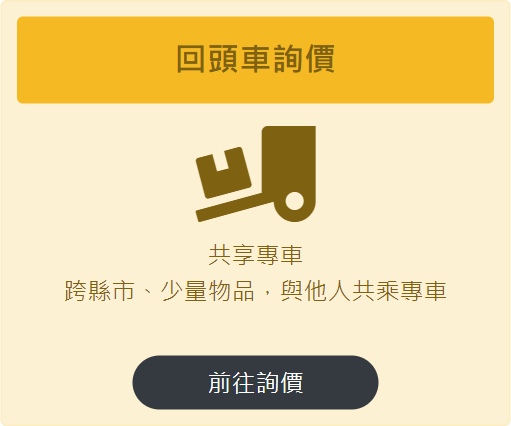
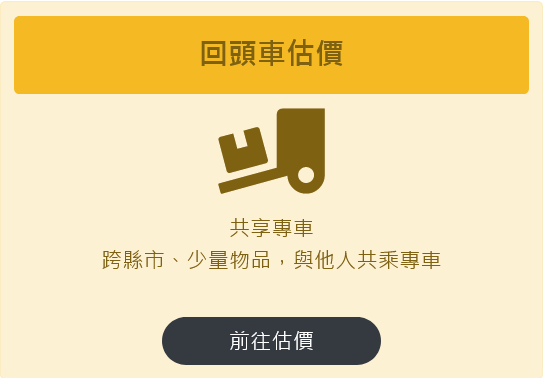
fix: wording

diff --git a/src/html/web/evaluate-step3.html b/src/html/web/evaluate-step3.html
@@ -26,16 +26,18 @@
                     <form>
                     <div class="box mb-6">
                         <div class="alert alert-warning m-0">
+                            <div class="h5 font-weight-bold">快速估價單使用說明</div>
                             <ul class="pl-4">
-                                <li class="my-1">個人資訊僅供搬家公司報價聯絡使用</li>
-                                <li class="my-1">填單完成，登入會員即可得與搬家公司雙向溝通討論</li>
-                                <li class="my-1">線上填寫搬家估價單，享5%折扣退費</li>
+                                <li class="my-1">估價單回覆日為1個工作天。</li>
+                                <li class="my-1">填單完成，登入會員即可與搬家公司雙向訊息溝通。</li>
+                                <li class="my-1">填寫搬家估價單，享5%折扣退費。</li>
+                                <li class="my-1">個人資訊僅供搬家公司報價聯絡使用。</li>
                             </ul>
-                            <div class="h5">退費方式</div>
+                            <div class="h5 font-weight-bold">5%退費方式</div>
                             <ol class="pl-4 m-0">
-                                <li class="my-1">透過崔媽媽基金會平台，找到合法立案搬家公司，搬家日主動索取填寫紙本崔媽媽搬家滿意度表或自行上網填寫滿意度表。</li>
-                                <li class="my-1">5%折扣退費，申請日:搬運完成月，次次月即可申請(1月1~1月31日搬運，3月1日起即可申請搬運退費。</li>
-                                <li class="my-1">退費方式:加入line客服@jpg1566h, 傳送相關訊息，崔媽媽基金會採用匯款方式提供退費。</li>
+                                <li class="my-1">凡透過崔媽媽金會平台，搬家完成日，主動向搬家公司索取填寫紙本或崔媽媽優良搬家網<a class="text-danger" href="#"><u>填寫【滿意度問卷】</u></a>。</li>
+                                <li class="my-1">退費日範例:1月1~1月31日搬運，3月1日起即可申請搬運退費。</li>
+                                <li class="my-1">一律採用匯款方式退費，加入line@客服@jpg1566h 傳送銀行帳號。</li>
                             </ol>
                         </div>
                         <div class="row align-items-center justify-content-center px-6 py-2 py-lg-7">
@@ -128,13 +130,23 @@
                                         @@include('../../partial/web/unit/_form-title.html',{
                                             title:'媒合搬家公司方式',
                                         })
-                                        <div class="btn-group">
-                                            <a class="btn btn-light mr-2 p-0" href="#">
-                                                <img class="" src="assets/img/ui/btn-select1.png" alt="崔媽媽基金會為您媒合搬家公司">
-                                            </a>
-                                            <a class="btn btn-light p-0" href="#">
-                                                <img class="" src="assets/img/ui/btn-select2.png" alt="自選1~2間搬家公司">
-                                            </a>
+                                        <div class="row">
+                                            <div class="col-12 col-lg-5 mb-2">
+                                                <a class="btn btn-block btn-light border border-warning text-left" href="#">
+                                                    <div class="d-flex align-items-center justify-content-center">
+                                                        <img class="col-4" src="assets/img/ui/icon-select1.png" alt="崔媽媽基金會為您媒合搬家公司">
+                                                        <div class="col">崔媽媽基金會為您<br>媒合搬家公司</div>
+                                                    </div>
+                                                </a>
+                                            </div>
+                                            <div class="col-12 col-lg-5 mb-2">
+                                                <a class="btn btn-block btn-light border border-warning text-left" href="#">
+                                                    <div class="d-flex align-items-center justify-content-center">
+                                                        <img class="col-4" src="assets/img/ui/icon-select2.png" alt="自選1~3間【搬家公司】">
+                                                        <div class="col">自選1~3間<br>【搬家公司】</div>
+                                                    </div>
+                                                </a>
+                                            </div>
                                         </div>
                                     </div>
                                 </div>

diff --git a/src/partial/common/modal/_modal-help.html b/src/partial/common/modal/_modal-help.html
@@ -14,16 +14,15 @@
                     <div class="col-12 h5">
                         <p>使用媒合單【3大好處】</p>
                         <ol class="pl-5">
-                            <li>填問卷享5%折扣。</li>
+                            <li>填寫快速估價單，搬運完成填寫【滿意度問卷】可<span class="text-danger">享搬運費5%退費</span>，最高上限1000元。</li>
                             <li>崔媽媽全程陪伴(詢價、糾紛協助)。</li>
-                            <li>線上填寫估價單，搬運完成填寫【搬家滿意度表】享5%退費 ，最高上限1000元。</li>
                         </ol>
                     </div>
                 </div>
                 <div class="row">
                     @@loop('../unit/_modal-help-item.html', [
-                        {btnStyle:'dark', btnIcon:'fas fa-shipping-fast', btnLabel:'快速估價'},
-                        {btnStyle:'dark', btnIcon:'fas fa-truck-loading', btnLabel:'回頭車估價'},
+                    {btnStyle:'dark', btnIcon:'fas fa-shipping-fast', btnLabel:'快速估價'},
+                    {btnStyle:'dark', btnIcon:'fas fa-truck-loading', btnLabel:'回頭車估價'},
                     ])
                 </div>
             </div>

diff --git a/src/partial/web/global/_nav-mobile.html b/src/partial/web/global/_nav-mobile.html
@@ -40,7 +40,7 @@
             </span>
         </a>
         <a class="list-group-item list-group-item-action d-flex justify-content-between align-items-center" href="#">
-            <span>填問卷享折扣</span>
+            <span>滿意度問卷</span>
         </a>
         <a class="list-group-item list-group-item-action d-flex justify-content-between align-items-center" href="#">
             <span>加入評鑑制度</span>

diff --git a/src/partial/web/global/_header.html b/src/partial/web/global/_header.html
@@ -102,7 +102,7 @@
         <div class="container">
             <ul class="nav nav-justified">
                 <li class="nav-item">
-                    <a class="nav-link" href="#">填問卷享折扣</a>
+                    <a class="nav-link" href="#">滿意度問卷</a>
                 </li>
                 <li class="nav-item">
                     <a class="nav-link" href="evaluate-form.html">加入評鑑制度</a>

diff --git a/src/html/app/index.html b/src/html/app/index.html
@@ -240,7 +240,7 @@
 
     @@include('../../partial/app/global/_footer.html')
 
-    @@include('../../partial/app/modal/_modal-help.html',{
+    @@include('../../partial/common/modal/_modal-help.html',{
         modalClass:'modal-help'
     })
 

diff --git a/src/html/web/index.html b/src/html/web/index.html
@@ -713,7 +713,7 @@
 
     @@include('../../partial/web/global/_footer.html')
 
-    @@include('../../partial/web/modal/_modal-help.html',{
+    @@include('../../partial/common/modal/_modal-help.html',{
         modalClass:'modal-help'
     })
 
